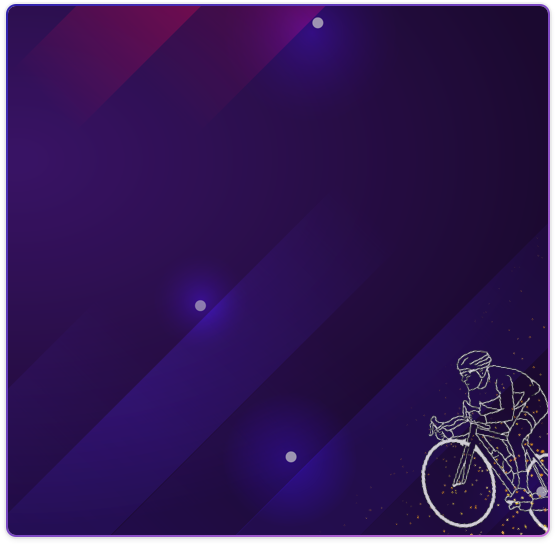
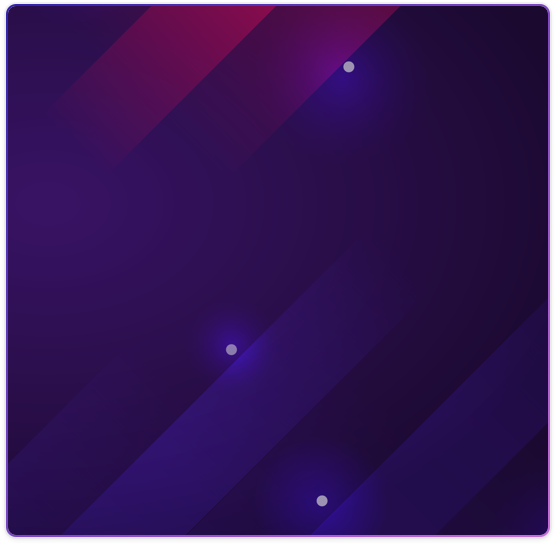
change UI dialog

diff --git a/AutonomousSport/src/screens/Challenge/index.js b/AutonomousSport/src/screens/Challenge/index.js
@@ -21,6 +21,7 @@ import { fetchUser, updateRacing } from '@/actions/UserAction';
 import { leftRoom,startRacing,finishedRoom } from '@/actions/RoomAction';
 import { connectAndPrepare, disconnectBluetooth } from '@/actions/RaceAction';
 import TextStyle, { screenSize } from '@/utils/TextStyle';
+import { scale,verticalScale } from 'react-native-size-matters';
 import firebase from 'react-native-firebase';
 import _, { debounce } from 'lodash';
 import { STATE_BLUETOOTH } from '@/utils/Constants';
@@ -28,9 +29,13 @@ import ImageZoom from 'react-native-image-pan-zoom';
 import Player from '@/models/Player';
 import Util from '@/utils/Util';
 import ViewUtil from '@/utils/ViewUtil';
+import FastImage from 'react-native-fast-image'
+
 
 export const TAG = 'ChallengeScreen';
 let heightMap = screenSize.height;
+const dialogPercentHeight = 0.9;
+const dialogHeightImage = screenSize.height*dialogPercentHeight;
 const colors = ['purple','blue','yellow','green'];
 let lastIndexPosition = 0;
 let currentPositionIndex = 0;
@@ -340,27 +345,28 @@ class ChallengeScreen extends BaseScreen {
     //   { playerName: 'HIEn', goal: 27 },
     //   { playerName: 'HTOn', goal: 27 },
     //   { playerName: 'HTOn', goal: 22 },
+    //   { playerName: 'HTon', goal: 25 },
+    //   { playerName: 'HTon', goal: 25 },
+    //   { playerName: 'HTon', goal: 25 },
     //   { playerName: 'HTon', goal: 25 }
     // ];
 
     const {players=[]} = this.state;
     // sort list player
     return (
-      <ImageBackground
-        width="100%"
-        height="100%"
-        style={{ width: '100%', height: '100%', flex: 1 }}
-        resizeMode="stretch"
+      <FastImage
+        style={{flex: 1,width:dialogHeightImage,height:dialogHeightImage}}
+        resizeMode={FastImage.resizeMode.stretch}
         source={images.back_score}
       >
-        <View style={{ flex: 1, paddingVertical: 10, paddingHorizontal: 20 }}>
+        <View style={{ flex: 1, paddingVertical: 30, paddingHorizontal: 30 }}>
           <Text
             style={[
-              TextStyle.mediumText,
+              TextStyle.extraText,
               {
                 textAlign: 'center',
                 color: 'white',
-                fontWeight: "600",
+                fontWeight: '600',
                 textAlignVertical: 'center'
               }
             ]}
@@ -374,29 +380,33 @@ class ChallengeScreen extends BaseScreen {
             <View style={{ flex: 1 }}>
               {players.sort((a,b)=>a.goal>b.goal).map(player => {
                 return (
-                  <View style={{ flexDirection: 'row', marginVertical: 2 }}>
+                  <View style={{ flexDirection: 'row', marginVertical:verticalScale(5) }}>
                     <Image source={images.ic_gold} />
-                    <View style={{ justifyContent: 'center', marginLeft: 10 }}>
+                    <View style={{ justifyContent: 'center', marginLeft: scale(15) }}>
                       <Text
                         style={[
-                          TextStyle.mediumText,
+                          TextStyle.bigText,
                           {
                             color: 'white',
                             textAlignVertical: 'center'
                           }
                         ]}
                       >
-                        {player.playerName || 'No Name'}
+                        {player.playerName || ''}
                       </Text>
                       <Text
                         style={[
                           TextStyle.normalText,
-                          { color: 'white', textAlignVertical: 'center' }
+                          { color: 'white', textAlignVertical: 'center',fontWeight:'bold' }
                         ]}
                       >
-                        {Number(player.goal) >= 100
-                          ? 'To Finish'
-                          : Number(player.goal)}
+                      <Text style={[
+                        TextStyle.normalText,
+                        { color: '#8d8d8d' ,fontWeight:'normal'}
+                      ]}>Finished </Text>
+                         {Number(player.goal) >= 100
+                          ? '100%'
+                          : `${Number(player.goal)}%`}
                       </Text>
                     </View>
                   </View>
@@ -411,12 +421,12 @@ class ChallengeScreen extends BaseScreen {
             textStyle={[TextStyle.mediumText, { fontWeight: 'bold' }]}
           />
         </View>
-      </ImageBackground>
+      </FastImage>
     );
   };
 
   onPressFinish = this.onClickView(()=>{
-    this.replaceScreen(this.props.navigation,TAGHOME);
+    this.replaceScreen(this.props.navigation,TAGCREATE);
   });
 
   renderMap = () => {
@@ -542,8 +552,9 @@ class ChallengeScreen extends BaseScreen {
         {ViewUtil.CustomProgressBar({visible:isLoadingAllScreen})}
         <PopupDialog
           width="70%"
-          height="90%"
+          height={`${dialogPercentHeight*100}%`}
           hasOverlay
+          dialogStyle={{backgroundColor:'transparent'}}
           dismissOnTouchOutside={false}
           ref={(popupDialog) => { this.popupDialog = popupDialog; }}>
           {this.renderDashBoardAchivement()}  
